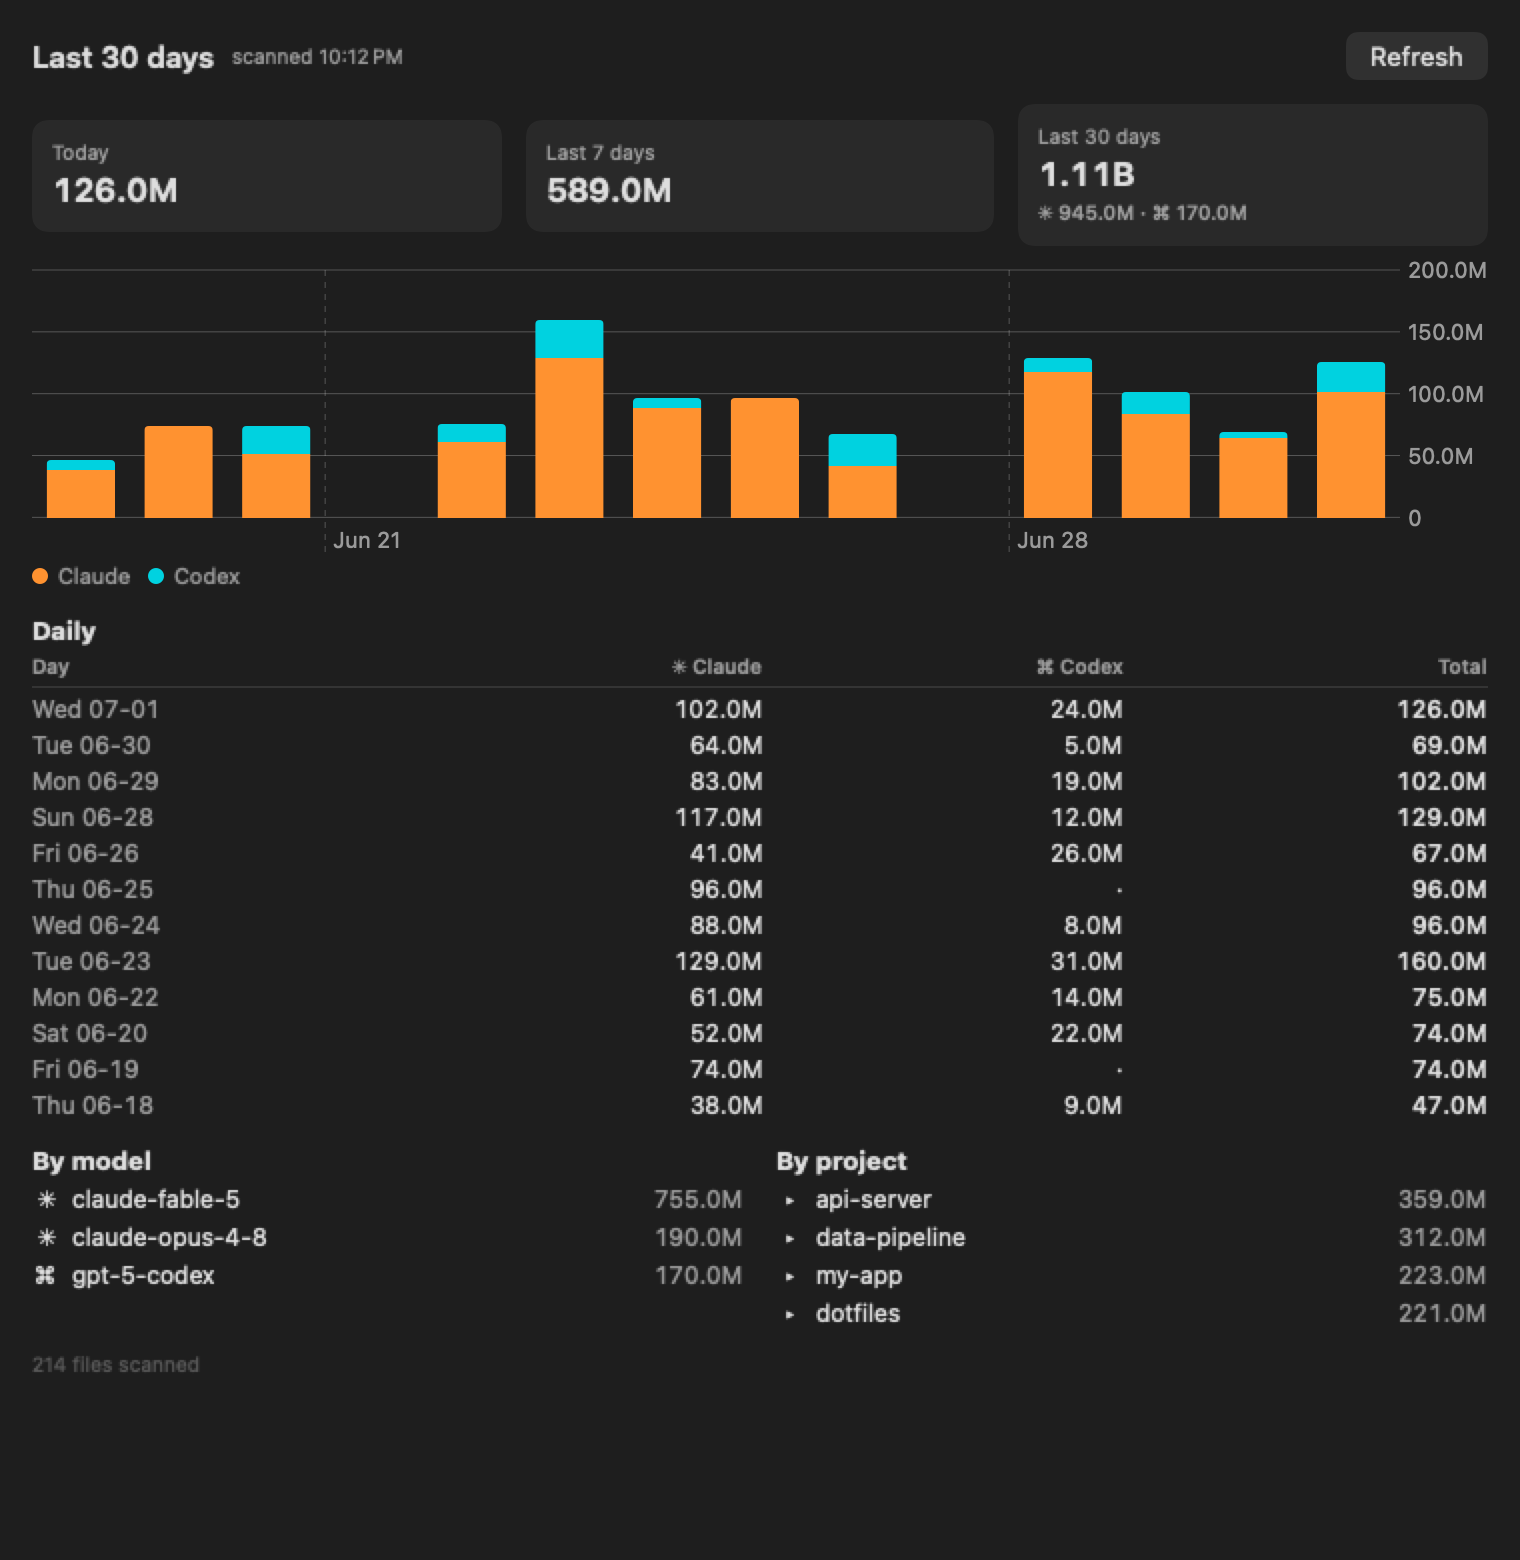
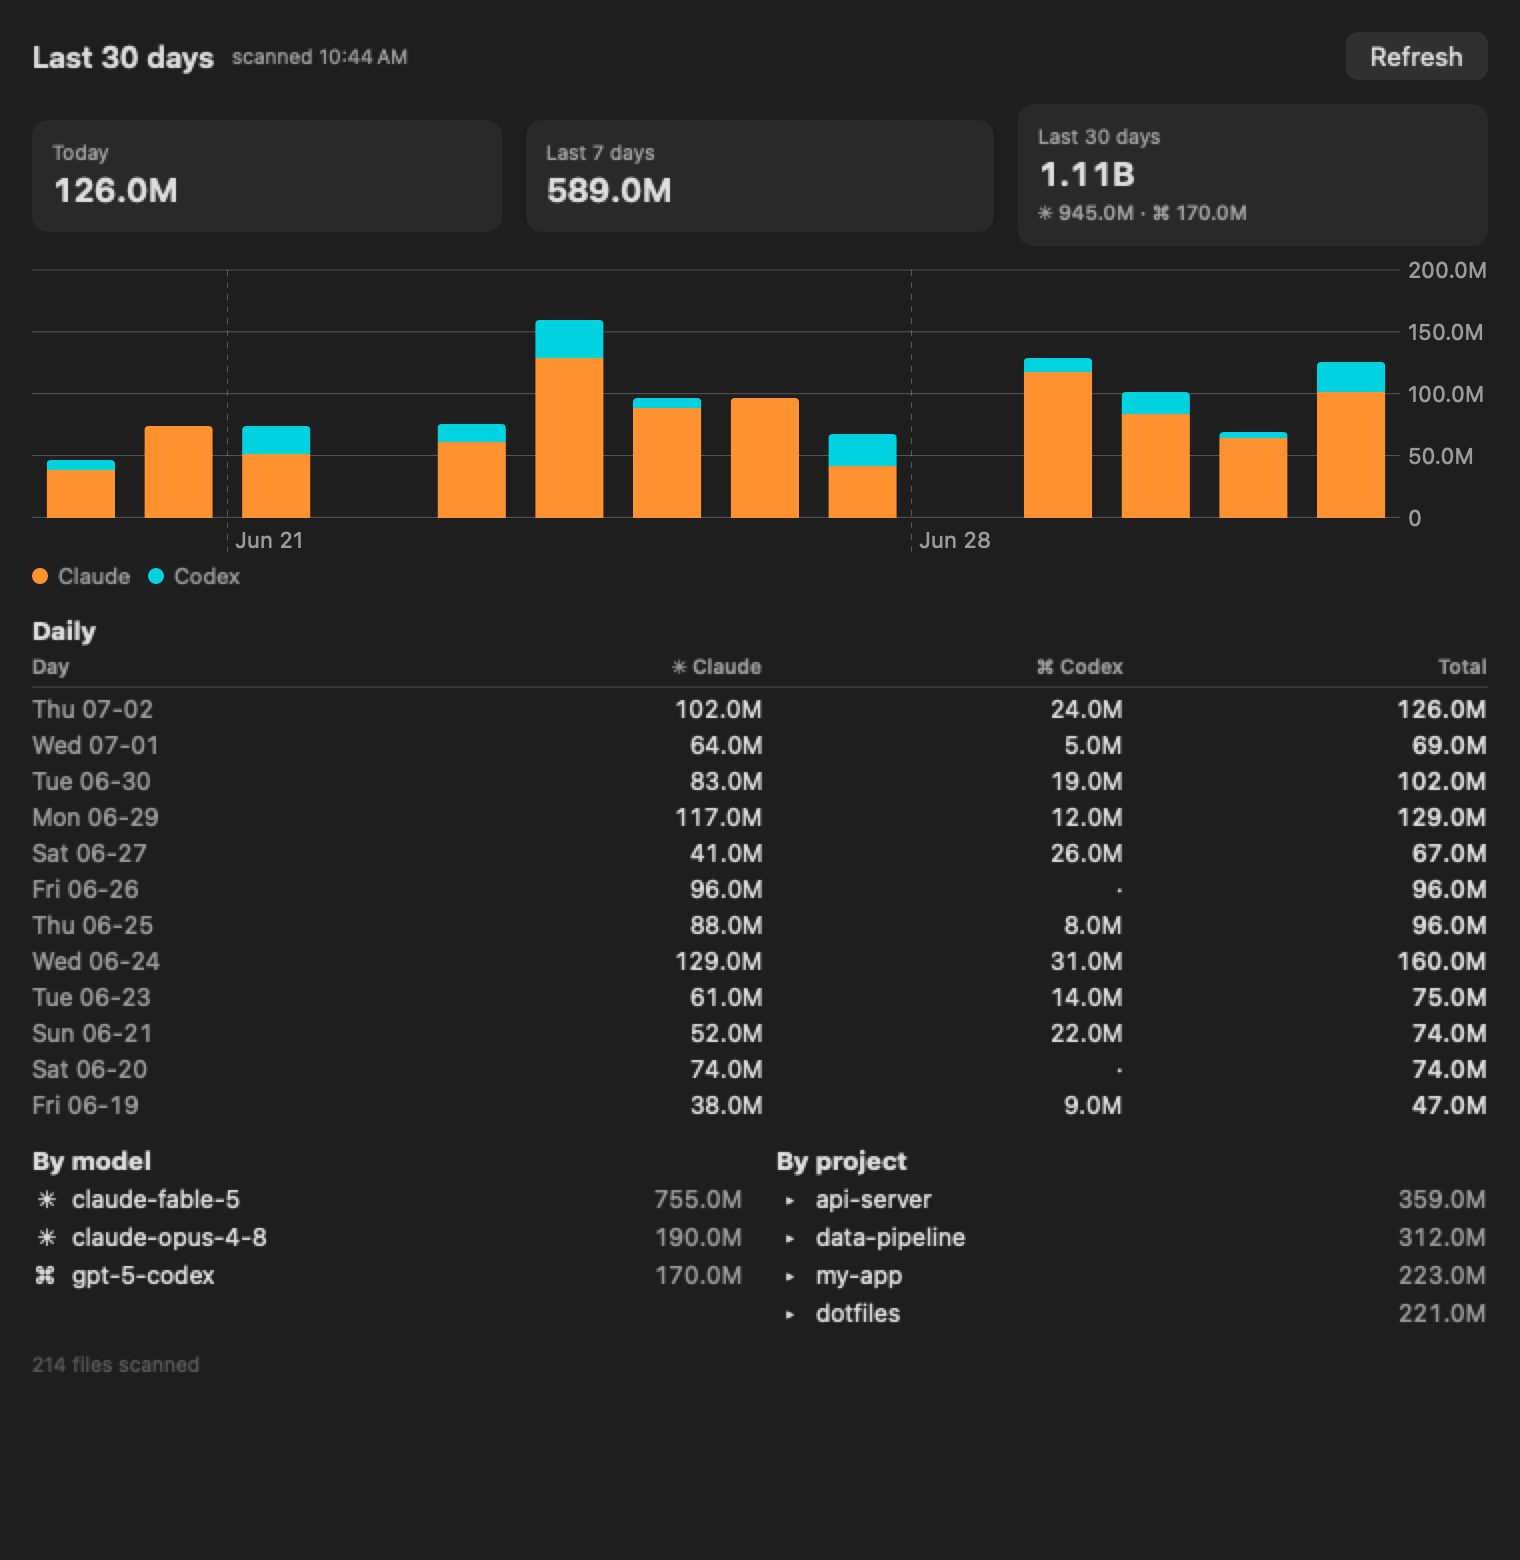
Sell the Footholds axis on the landing page

diff --git a/perch/index.html b/perch/index.html
@@ -4,12 +4,12 @@
 <meta charset="utf-8">
 <meta name="viewport" content="width=device-width, initial-scale=1">
 <title>Perch — the read-only watcher for your coding agents</title>
-<meta name="description" content="Perch is a read-only macOS notch + menu bar monitor for Claude Code and Codex. Open source, free, local-only. It risk-scores every tool call, alerts you the instant an agent runs something dangerous, and tracks sessions, rate limits, and token usage.">
+<meta name="description" content="Perch is a read-only macOS notch + menu bar monitor for Claude Code and Codex. Open source, free, local-only. It risk-scores every tool call, tracks the persistence footholds agents leave behind, and alerts you the instant either turns dangerous — plus sessions, rate limits, and token usage.">
 <link rel="canonical" href="https://themobiusstrip.github.io/perch/">
 <meta property="og:type" content="website">
 <meta property="og:site_name" content="Perch">
 <meta property="og:title" content="Perch — the read-only watcher for your coding agents">
-<meta property="og:description" content="Read-only macOS notch + menu bar monitor for Claude Code and Codex. Open source, free, local-only. Risk-scores every tool call and alerts you when an agent runs something dangerous.">
+<meta property="og:description" content="Read-only macOS notch + menu bar monitor for Claude Code and Codex. Open source, free, local-only. Risk-scores every tool call and tracks the footholds agents leave behind.">
 <meta property="og:image" content="https://themobiusstrip.github.io/perch/img/notch.png">
 <meta property="og:image:width" content="1520">
 <meta property="og:image:height" content="936">
@@ -230,7 +230,7 @@
   <header>
     <span class="eyebrow">Open source · Free · Local-only · Read-only</span>
     <h1>Your coding agents will say they're fine.<br><span class="gold">Perch lets you see for yourself.</span></h1>
-    <p class="sub">A read-only macOS notch and menu bar monitor for Claude Code and Codex. Every session, every dangerous command, every rate limit — in your line of sight, without your terminal ever losing focus.</p>
+    <p class="sub">A read-only macOS notch and menu bar monitor for Claude Code and Codex. Every session, every dangerous command, every foothold left behind — in your line of sight, without your terminal ever losing focus.</p>
     <div class="cta-row">
       <a class="btn btn-gold" href="https://github.com/theMobiusStrip/perch/releases/latest">Download for Mac</a>
       <a class="btn btn-ghost" href="https://github.com/theMobiusStrip/perch">View source</a>
@@ -242,15 +242,15 @@
 
     <div class="trust">
       <div><b>Read-only</b><span>no approve/deny code path exists</span></div>
-      <div><b>Open source</b><span><a href="https://github.com/theMobiusStrip/perch">MIT · ~8k lines of Swift, zero deps</a></span></div>
+      <div><b>Open source</b><span><a href="https://github.com/theMobiusStrip/perch">MIT · ~11k lines of Swift, zero deps</a></span></div>
       <div><b>Local-only</b><span>zero network calls, zero upload</span></div>
       <div><b>Free</b><span>no tiers, no account</span></div>
     </div>
   </header>
 
   <section id="features">
-    <h2>The riskiest calls are the ones nobody asks you about</h2>
-    <p class="lead">Auto-approve rules and relaxed permission modes keep agents fast — and make the dangerous calls silent. Perch risk-scores every tool call offline and makes the bad ones impossible to miss.</p>
+    <h2>What your agents are doing — and leaving behind</h2>
+    <p class="lead">Auto-approve rules and relaxed permission modes keep agents fast — and make the dangerous calls silent. Perch risk-scores every tool call offline and makes the bad ones impossible to miss. And because a hijack that survives the session never needs another tool call, it watches the persistence surface too.</p>
     <div class="grid">
       <div class="card">
         <h3><span class="dot">●</span> Danger drops from the notch</h3>
@@ -258,17 +258,28 @@
         <p><kbd>Esc</kbd> dismisses, <kbd>←</kbd><kbd>→</kbd> walk the queue. Your editor keeps focus.</p>
       </div>
       <div class="card">
-        <h3>Memory-pollution detection</h3>
-        <p>Flags writes to the agent's own instruction surface: <code>~/.claude</code> settings, hooks, and plugins (danger — they execute in future sessions), and <code>CLAUDE.md</code> / <code>AGENTS.md</code> / memory files (caution — injection that outlives the session). Shell-level writes count too.</p>
+        <h3>Writing to the agent's brain</h3>
+        <p>Hook-time catches for instruction-surface writes: <code>~/.claude</code> settings, hooks, and plugins are flagged danger (they execute in future sessions); <code>CLAUDE.md</code> / <code>AGENTS.md</code> / memory files caution (injection that outlives the session). Shell-level writes count too.</p>
+      </div>
+      <div class="card">
+        <h3>Footholds — what's left behind</h3>
+        <p>A separate notch page scans the persistence surface straight from disk: agent config and hooks, MCP servers, plugins, <code>CLAUDE.md</code> and memory files, LaunchAgents, shell profiles. No hook required — it covers changes made before Perch launched — and a flag stays up until you acknowledge it.</p>
+      </div>
+      <div class="card">
+        <h3>A security score you can glance</h3>
+        <p>A rolling 0–100 posture score in the notch and menu bar: −25 per danger, −5 per caution over the last hour. A quiet hour heals it back to 100.</p>
       </div>
       <div class="card">
         <h3>Every session, one glance</h3>
-        <p>Live list of all Claude Code and Codex sessions — running / waiting / idle, last message, context gauge, red badge on any session that just ran something dangerous. Plus a rolling 0–100 security score in the notch and menu bar.</p>
+        <p>Live list of all Claude Code and Codex sessions — running / waiting / idle, last message, context gauge, red badge on any session that just ran something dangerous.</p>
       </div>
       <div class="card">
         <h3>Rate limits and token usage</h3>
-        <p>Claude 5h/7d and Codex 5h/weekly windows with reset countdowns and an 80% warning. Token totals for today / 7 days / 30 days, and a full per-day, per-model, per-project dashboard.</p>
+        <p>Claude 5h/7d and Codex 5h/weekly windows with reset countdowns and an 80% warning — the Claude gauges are fed by terminal sessions (the desktop app doesn't report them). Token totals for today / 7 days / 30 days, and a full per-day, per-model, per-project dashboard.</p>
       </div>
+    </div>
+    <div class="shot">
+      <img src="img/integrity.png" alt="Perch Footholds page: the agent persistence surface — config, hooks, MCP servers, memory, LaunchAgents, shell profiles — with recent-change flags" width="1200" height="920" loading="lazy" decoding="async">
     </div>
     <div class="shot">
       <img src="img/usage.png" alt="Perch token usage dashboard with daily stacked chart and per-agent, per-model, per-project breakdowns" width="1520" height="1560" loading="lazy" decoding="async">
@@ -292,9 +303,9 @@
         <tr><td>Suspicious network</td><td>plaintext <code>http://</code>, raw-IP fetches, netcat</td></tr>
       </tbody>
     </table>
-    <p class="note">Every rule lives in one readable, self-tested file: <a href="https://github.com/theMobiusStrip/perch/blob/main/Sources/PerchCore/RiskAssessor.swift">RiskAssessor.swift</a>.</p>
+    <p class="note">These are caught live, per tool call — every rule lives in one readable, self-tested file: <a href="https://github.com/theMobiusStrip/perch/blob/main/Sources/PerchCore/RiskAssessor.swift">RiskAssessor.swift</a>. The Footholds page additionally scans the persistence surface — config and hooks, MCP servers, plugins, memory, LaunchAgents, shell profiles — straight from disk, so it also covers changes made before Perch launched.</p>
     <div class="honest">
-      <b>What it doesn't catch (yet).</b> Perch is a heuristic pattern-matcher, not a sandbox — a smoke detector, not a firewall. It doesn't see credential reads via the Read/Grep tools (only shell reads), data exfiltration (<code>curl -d @secret</code>, <code>scp</code> to a remote), obfuscated commands (<code>base64 -d | sh</code>, <code>eval</code>, write-a-script-then-run-it), or MCP-tool calls. Treat it as a high-signal early warning, not a guarantee — and keep your agent's own permissions sensible too.
+      <b>What it doesn't catch (yet).</b> Perch is a heuristic pattern-matcher, not a sandbox — a smoke detector, not a firewall. It doesn't see credential reads via the Read/Grep tools (only shell reads), data exfiltration (<code>curl -d @secret</code>, <code>scp</code> to a remote), obfuscated commands (<code>base64 -d | sh</code>, <code>eval</code>, write-a-script-then-run-it), or MCP-tool calls at runtime (installed MCP servers do show up in Footholds). Treat it as a high-signal early warning, not a guarantee — and keep your agent's own permissions sensible too.
     </div>
   </section>
 
@@ -317,7 +328,7 @@
           <li>Grab the latest <code>.dmg</code> from <a href="https://github.com/theMobiusStrip/perch/releases/latest">Releases</a> and drag Perch into Applications.</li>
           <li>First launch: Perch is open-source and signed locally rather than notarized, so macOS asks once. macOS 15+: <b>Privacy&nbsp;&amp;&nbsp;Security → Open Anyway</b>. macOS 14: right-click → <b>Open</b>.</li>
           <li>Menu bar → <b>Install Claude Hooks…</b> / <b>Install Codex Hooks…</b> (existing settings are parse-merged and backed up).</li>
-          <li>Restart running sessions — for Codex, also run <code>/hooks</code> once inside Codex and trust the Perch hook — then verify with <b>Doctor</b>.</li>
+          <li>Restart running sessions, then verify with <b>Doctor</b>. Codex hook trust is recorded automatically during install; only if that fails (an old Codex CLI) run <code>/hooks</code> once in the terminal <code>codex</code> TUI.</li>
         </ol>
       </div>
       <div class="card">
@@ -331,7 +342,7 @@ make run</pre>
     </div>
     <div class="faq">
       <div><b>Does it slow my agents down?</b> <span>No. Hooks call a bridge that forwards the event over a local socket in ~10&nbsp;ms and exits — fire-and-forget. Approvals never route through Perch. If Perch dies, your agents don't even notice.</span></div>
-      <div><b>What exactly does it read?</b> <span>Only the local session records Claude Code and Codex already write — hook events, transcripts, usage files. Nothing leaves your machine; Perch makes zero network calls.</span></div>
+      <div><b>What exactly does it read?</b> <span>The session records the agents already write — hook events, transcripts, usage files — plus, for the Footholds scan, the agent-config and persistence surfaces themselves: <code>~/.claude</code> settings and plugins, <code>~/.claude.json</code>, <code>CLAUDE.md</code> and memory files, LaunchAgents, shell profiles (some checked by timestamp only). All read-only; nothing leaves your machine — Perch makes zero network calls.</span></div>
       <div><b>Can it block or approve anything?</b> <span>No, by design. There is no approve/deny code path in the source. A monitoring tool should have zero authority over the thing it monitors.</span></div>
     </div>
   </section>